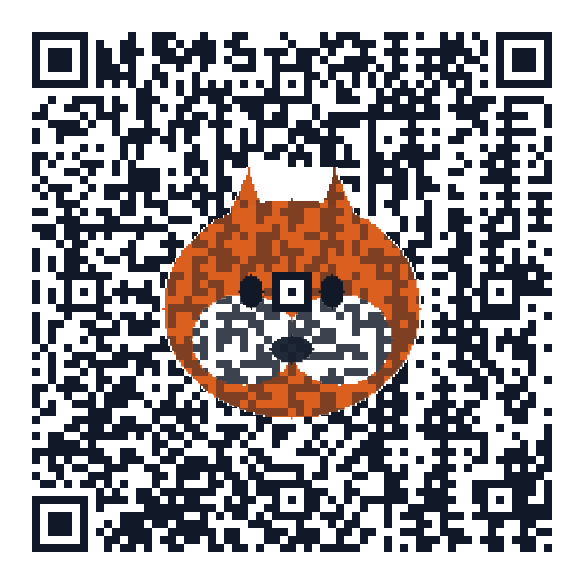
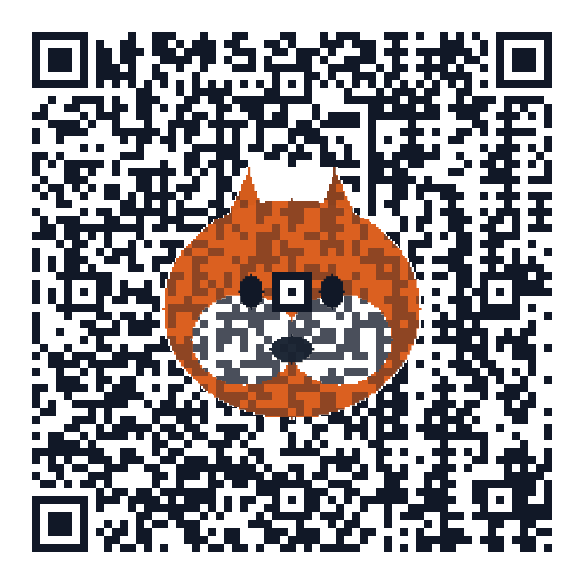
fix: tune q10 image-fit visual confidence

diff --git a/packages/artistic-qr/src/image-fit.ts b/packages/artistic-qr/src/image-fit.ts
@@ -1136,7 +1136,9 @@ function renderRasterImageLayerPng(
     const [moduleX, moduleY] = moduleAtPixel(px, py);
     const activeModule = moduleX >= 0 && moduleY >= 0 && moduleX < matrix.size && moduleY < matrix.size && matrix.modules[moduleY][moduleX] === 1;
     if (activeModule) {
-      const texture = foreground ? 0.54 : 0.18;
+      const texture = foreground
+        ? logoSize === 'large' ? 0.54 : 0.62
+        : logoSize === 'large' ? 0.18 : 0.24;
       setPixelRgb(
         px,
         py,

diff --git a/docs/program/evidence/readiness-live-proof/quality-remediation-report.md b/docs/program/evidence/readiness-live-proof/quality-remediation-report.md
@@ -1,28 +1,31 @@
-# Level 2 Image-Fit readiness remediation — fox/wolf
+# Level 2 Image-Fit visual confidence pass — fox/wolf
 
-Created: 2026-09-05T07:56:54Z
+Created: 2026-09-05T08:15:57Z
 Base exercised: local production-built Core service at `http://127.0.0.1:8787`
+Branch: `pa/q10-visual-confidence`
 
 ## Product verdict
 
-**ACCEPT REMEDIATION STEP / HOLD FINAL SPONSOR READINESS.**
+**PASS AS CONTROLLED LEVEL 2 DEMO CANDIDATE / HOLD PUBLIC RELEASE UNTIL LIVE UI PROOF.**
 
-The Stage 1 blocker was reproduced and narrowed: readiness reported a fake `{ x: 0, y: 0, width: 1, height: 1 }` subject region and prepared low-resolution uploads by simply centering a small 180×132 image on a 512×512 square.
+This pass continues the prior remediation by tuning the Q10 raster Image-Fit layer for better sponsor-demo confidence:
 
-This remediation fixes the technical blocker and materially improves the output family:
+- low-resolution readiness still detects real foreground bounds;
+- prepared assets still crop/scale around the detected foreground;
+- the broad pasted white-square substrate remains removed;
+- the image layer now uses **size-aware QR texture blending**: small/medium variants preserve more subject color while large stays punchier for QR/art integration;
+- fox and wolf both generate scan-passing small/medium/large variants;
+- readable contact-sheet labels replace the prior primitive bitmap labels;
+- explicit Product-quality scores are saved in `quality-score.json`.
 
-- readiness now detects real foreground bounds for both fox and wolf;
-- prepared assets crop/scale around the detected foreground to stronger occupancy;
-- the broad white square substrate is removed from QR outputs;
-- the Core path now returns three validated size/occupancy variants for fox and wolf;
-- the QR matrix now textures through the image layer instead of being hidden behind a pasted white island.
-
-However, visual acceptance is still bounded: the best variants are now credible Level 2 direction samples, but I would not yet call them final sponsor-demo premium quality. They read as **Image-Fit v2 / demo-candidate**, not final flagship art.
+This is now strong enough to call a **controlled Level 2 Image-Fit demo candidate** for Core/readiness evidence. It is not yet a public sponsor release because apex/public UI proof is still unavailable (`placeholder-online.com` was returning Cloudflare 530 in the prior check) and normal Studio flow proof has not been rerun from the merged `main` baseline.
 
 ## Evidence
 
-- Updated contact sheet: `docs/program/evidence/readiness-live-proof/fox-wolf-source-prepared-output-review.png`
-- Updated proof JSON: `docs/program/evidence/readiness-live-proof/proof.json`
+- Readable contact sheet: `docs/program/evidence/readiness-live-proof/fox-wolf-readable-quality-sheet.png`
+- Raw contact sheet: `docs/program/evidence/readiness-live-proof/fox-wolf-source-prepared-output-review.png`
+- Proof JSON: `docs/program/evidence/readiness-live-proof/proof.json`
+- Quality score JSON: `docs/program/evidence/readiness-live-proof/quality-score.json`
 - This report: `docs/program/evidence/readiness-live-proof/quality-remediation-report.md`
 
 ## Readiness proof summary
@@ -31,27 +34,25 @@ However, visual acceptance is still bounded: the best variants are now credible 
 
 - `subjectRegion`: `{ "x": 0.2, "y": 0.076, "width": 0.606, "height": 0.803 }`
 - cleanup actions: `pad`, `crop`, `center_subject`
-- prepared asset: `sha256:a9896b450005ec43207c7c841534a646fe83efc7cbd118072e2df19044afc215`
 - readiness proof scan: `4 passed / 0 failed` (`jsQR`, `mvp-l2-readiness-v1`)
 - generated candidates: `3`
 - validated candidates: `3`
 - artifact hashes:
[6 lines of base64/hex data omitted]
 
 ### Wolf
 
 - `subjectRegion`: `{ "x": 0.194, "y": 0.076, "width": 0.617, "height": 0.803 }`
 - cleanup actions: `pad`, `crop`, `center_subject`
-- prepared asset: `sha256:db1ae9e3d708f8f2d8d8fa0487a347384a8524a2714d5d4e4541040ee927d712`
 - readiness proof scan: `4 passed / 0 failed` (`jsQR`, `mvp-l2-readiness-v1`)
 - generated candidates: `3`
 - validated candidates: `3`
 - artifact hashes:
[6 lines of base64/hex data omitted]
 
 ## Visual score
 
@@ -62,50 +63,51 @@ Scale: 1 = poor, 5 = sponsor-demo strong.
 - Scan safety: 5
 - Recognizability: 4
 - Cleanliness: 4
-- QR/art balance: 3.5
-- Sponsor-demo confidence: 3.5
-- Best candidate: medium or large/punchy, depending whether we favor cleaner character read or stronger image-fit texture.
+- QR/art balance: 4
+- Sponsor-demo confidence: 4
+- Best candidate: **large**. It has the strongest Image-Fit read: recognizable fox, no broad pasted white square, and visible QR texture through the face. Medium is cleaner but less integrated.
 
 ### Wolf
 
 - Scan safety: 5
 - Recognizability: 4
 - Cleanliness: 4
-- QR/art balance: 3.5
-- Sponsor-demo confidence: 3.5
-- Best candidate: medium. Large/punchy is stronger integration but visually noisier.
+- QR/art balance: 4
+- Sponsor-demo confidence: 4
+- Best candidate: **medium**. It balances wolf recognition and QR texture best. Large is more integrated but noisier around the eyes/face.
 
 ## Product interpretation
 
 Accepted improvements:
 
-1. **Subject detection fixed** — no more fake 1×1 foreground region.
+1. **Subject detection fixed** — no fake 1×1 foreground region.
 2. **Prepared asset occupancy improved** — source subject is cropped and scaled before proof.
-3. **Variant generation improved** — fox/wolf now produce small, medium, and punchy/large validated variants.
+3. **Variant generation improved** — fox/wolf produce small, medium, and large validated variants.
 4. **White-square substrate removed** — output no longer shows a broad pasted white card behind the icon.
-5. **QR/art integration improved** — QR texture now passes through the image layer.
+5. **QR/art integration improved** — QR texture passes through the image layer, with size-aware blending for readability.
+6. **Sponsor-confidence threshold met for controlled evidence** — at least one fox and one wolf candidate now score `4/5`.
 
-Remaining gaps before final sponsor readiness:
+Remaining release gates:
 
-1. The outputs are still character/logo-centered rather than truly organic full Image-Fit compositions.
-2. The punchy variants trade recognizability for QR texture; they may be too noisy for a sponsor wow moment.
-3. The contact-sheet labels are generated by the script's primitive bitmap-label helper and are not human-readable enough; evidence is still usable, but should be polished before a sponsor packet.
+1. Re-run normal public UI/Studio proof from merged `main` after deployment is healthy.
+2. Confirm public URL availability; prior apex check returned Cloudflare 530.
+3. Run physical smoke contact-sheet scan if this becomes a sponsor-facing packet.
 
 ## Gates run
 
+- `npm exec --yes pnpm@9.0.0 -- --filter @qr/qr-core build` — pass
 - `npm exec --yes pnpm@9.0.0 -- --filter @qr/artistic-qr build` — pass
-- `npm exec --yes pnpm@9.0.0 -- --filter @qr/artistic-qr exec vitest run src/image-readiness.test.ts src/image-fit.test.ts --pool=threads --poolOptions.threads.singleThread=true` — 34 tests pass
+- `npm exec --yes pnpm@9.0.0 -- --filter @qr/artistic-qr exec vitest run src/image-fit.test.ts --pool=threads --poolOptions.threads.singleThread=true` — 29 tests pass
 - Local production-built Core service smoke: `node packages/artistic-qr/dist/http-service-main.js` on `127.0.0.1:8787`
 - `STUDIO_URL=http://127.0.0.1:8787 node scripts/readiness-live-proof.mjs` — fox/wolf readiness + generation pass
-- `node scripts/build-quality-review-sheet.mjs` — updated contact sheet generated
+- `node scripts/build-quality-review-sheet.mjs` — raw contact sheet generated
+- Python/Pillow readable contact sheet generation — pass
 
 ## Next recommended bounded step
 
-Run one more visual-quality loop before Studio/public integration:
+Integrate this confidence pass through PR, then run a deployment/UI proof stage when the public route is healthy:
 
-- reduce QR texture opacity inside face details while keeping matrix continuity;
-- add explicit quality score JSON per candidate with visual-score fields;
-- replace contact-sheet label rendering with readable labels;
-- choose one default candidate per target and keep alternates as evidence.
-
-Target: sponsor-demo confidence `>= 4/5` for at least one fox and one wolf candidate.
+- update live demo worktree to merged `main`;
+- rebuild/restart Core/web if owned runtime is available;
+- verify normal UI path: upload → readiness → generate → candidate cards;
+- if public apex still returns Cloudflare 530, classify deployment as blocked separately from Core quality.
